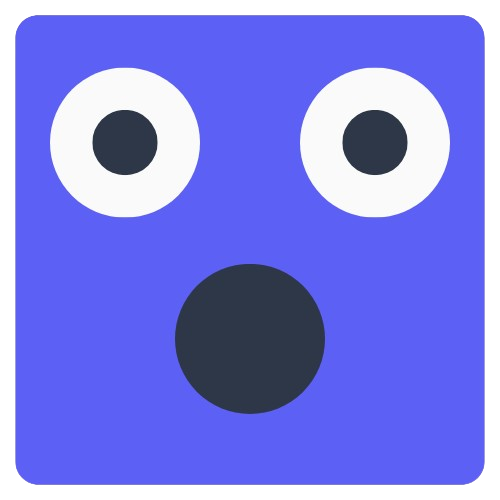
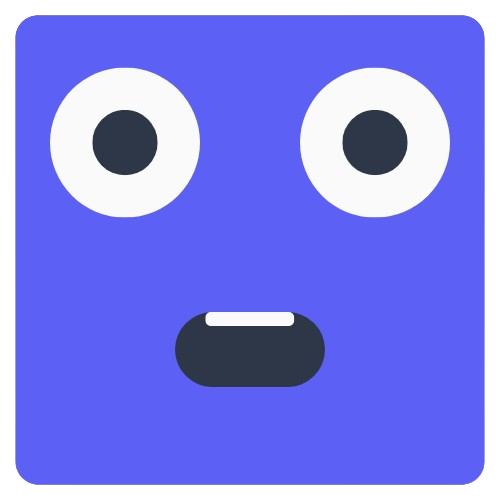
.

Changed region(s): [[0.33, 0.51, 0.66, 0.75], [0.36, 0.75, 0.63, 0.84]]

diff --git a/Assets/Scripts/index.js b/Assets/Scripts/index.js
@@ -276,11 +276,12 @@ const Chat = {
             { regex: /\[pi\](.*?)\[\/pi\]/g, replacement: '<span class="text-pink-500">$1</span>' },
             { regex: /\[ra\](.*?)\[\/ra\]/g, replacement: '<span style="background-image: linear-gradient(to right, #EF476F, #FFAE66, #FFD166, #06D6A0, #118AB2); -webkit-background-clip: text; -webkit-text-fill-color: transparent;">$1</span>' },
             { regex: /\[us\](.*?)\[\/us\]/g, replacement: '<span style="background-image: linear-gradient(to right, #FF334F, #DEE1F3, #3471E3); -webkit-background-clip: text; -webkit-text-fill-color: transparent;">$1</span>' },
-            { regex: /\(D:\)/g, replacement: '<img src="./Assets/Images/Emojis/01.png" class="mikemoji" alt="D:">' },
-            { regex: /\(:o\)/g, replacement: '<img src="./Assets/Images/Emojis/02.png" class="mikemoji" alt=":o">' },
-            { regex: /\(:O\)/g, replacement: '<img src="./Assets/Images/Emojis/03.png" class="mikemoji" alt=":O">' },
-            { regex: /\(<3\)/g, replacement: '<img src="./Assets/Images/Emojis/04.png" class="mikemoji" alt="<3">' },
-            { regex: /\(\*\)/g, replacement: '<img src="./Assets/Images/Emojis/05.png" class="mikemoji" alt="*">' }
+            { regex: /\(:D\)/g, replacement: '<img src="./Assets/Images/Emojis/01.png" class="mikemoji" alt=":D">' },
+            { regex: /\(D:\)/g, replacement: '<img src="./Assets/Images/Emojis/02.png" class="mikemoji" alt="D:">' },
+            { regex: /\(:o\)/g, replacement: '<img src="./Assets/Images/Emojis/03.png" class="mikemoji" alt=":o">' },
+            { regex: /\(:O\)/g, replacement: '<img src="./Assets/Images/Emojis/04.png" class="mikemoji" alt=":O">' },
+            { regex: /\(<3\)/g, replacement: '<img src="./Assets/Images/Emojis/05.png" class="mikemoji" alt="<3">' },
+            { regex: /\(\*\)/g, replacement: '<img src="./Assets/Images/Emojis/06.png" class="mikemoji" alt="*">' }
         ];
 
         replacements.forEach(({ regex, replacement }) => {
